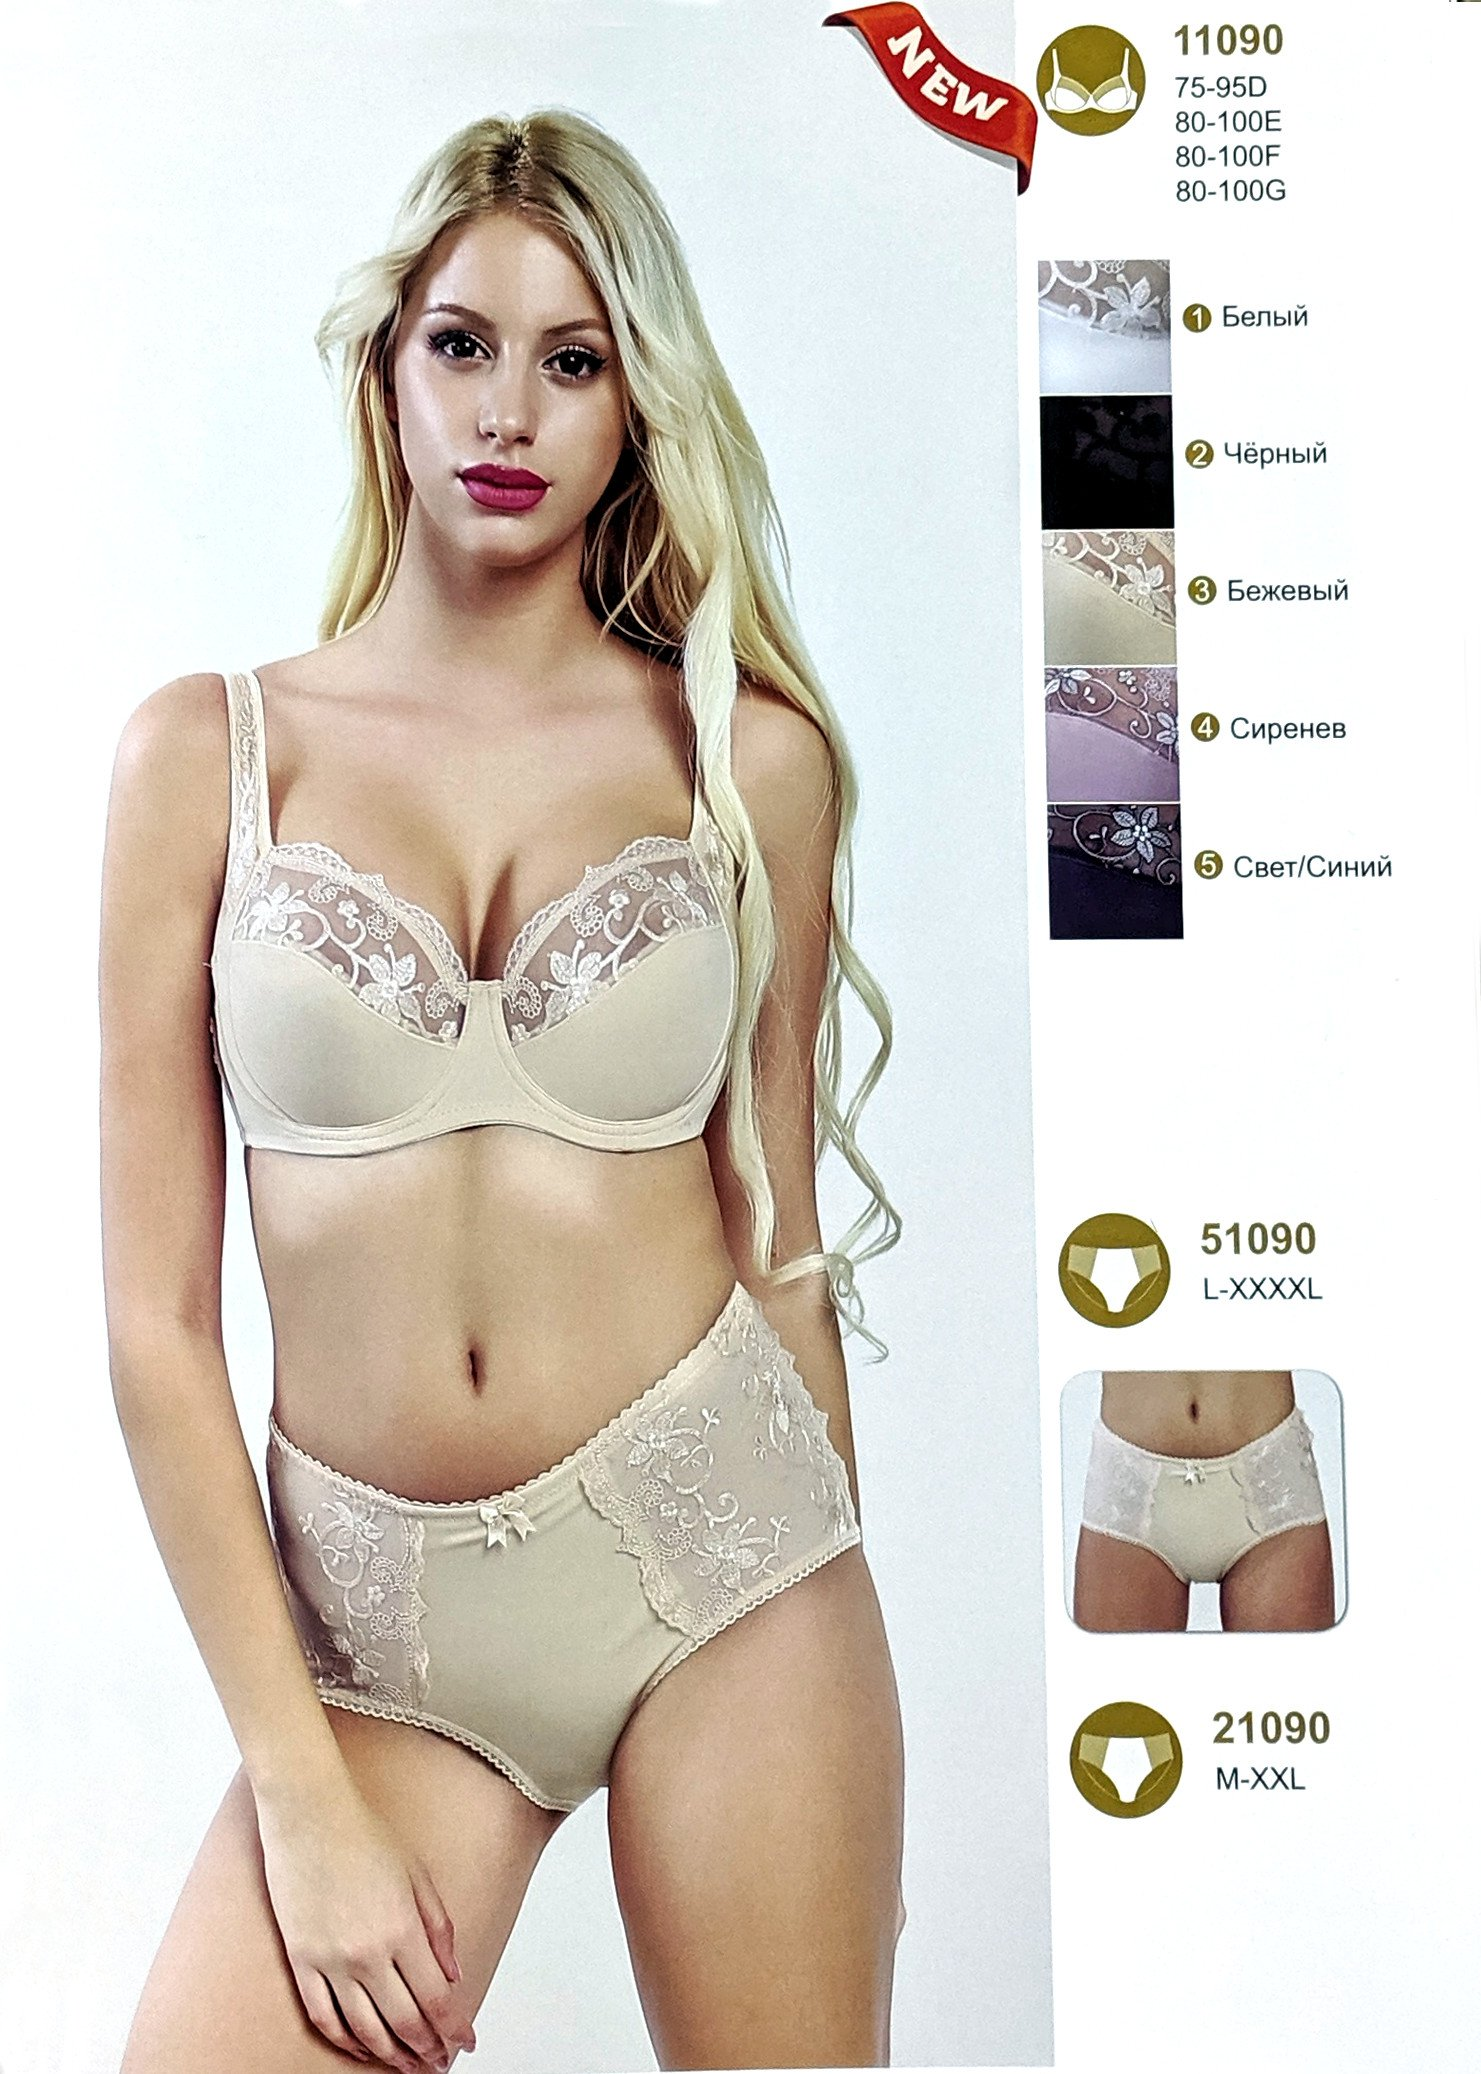
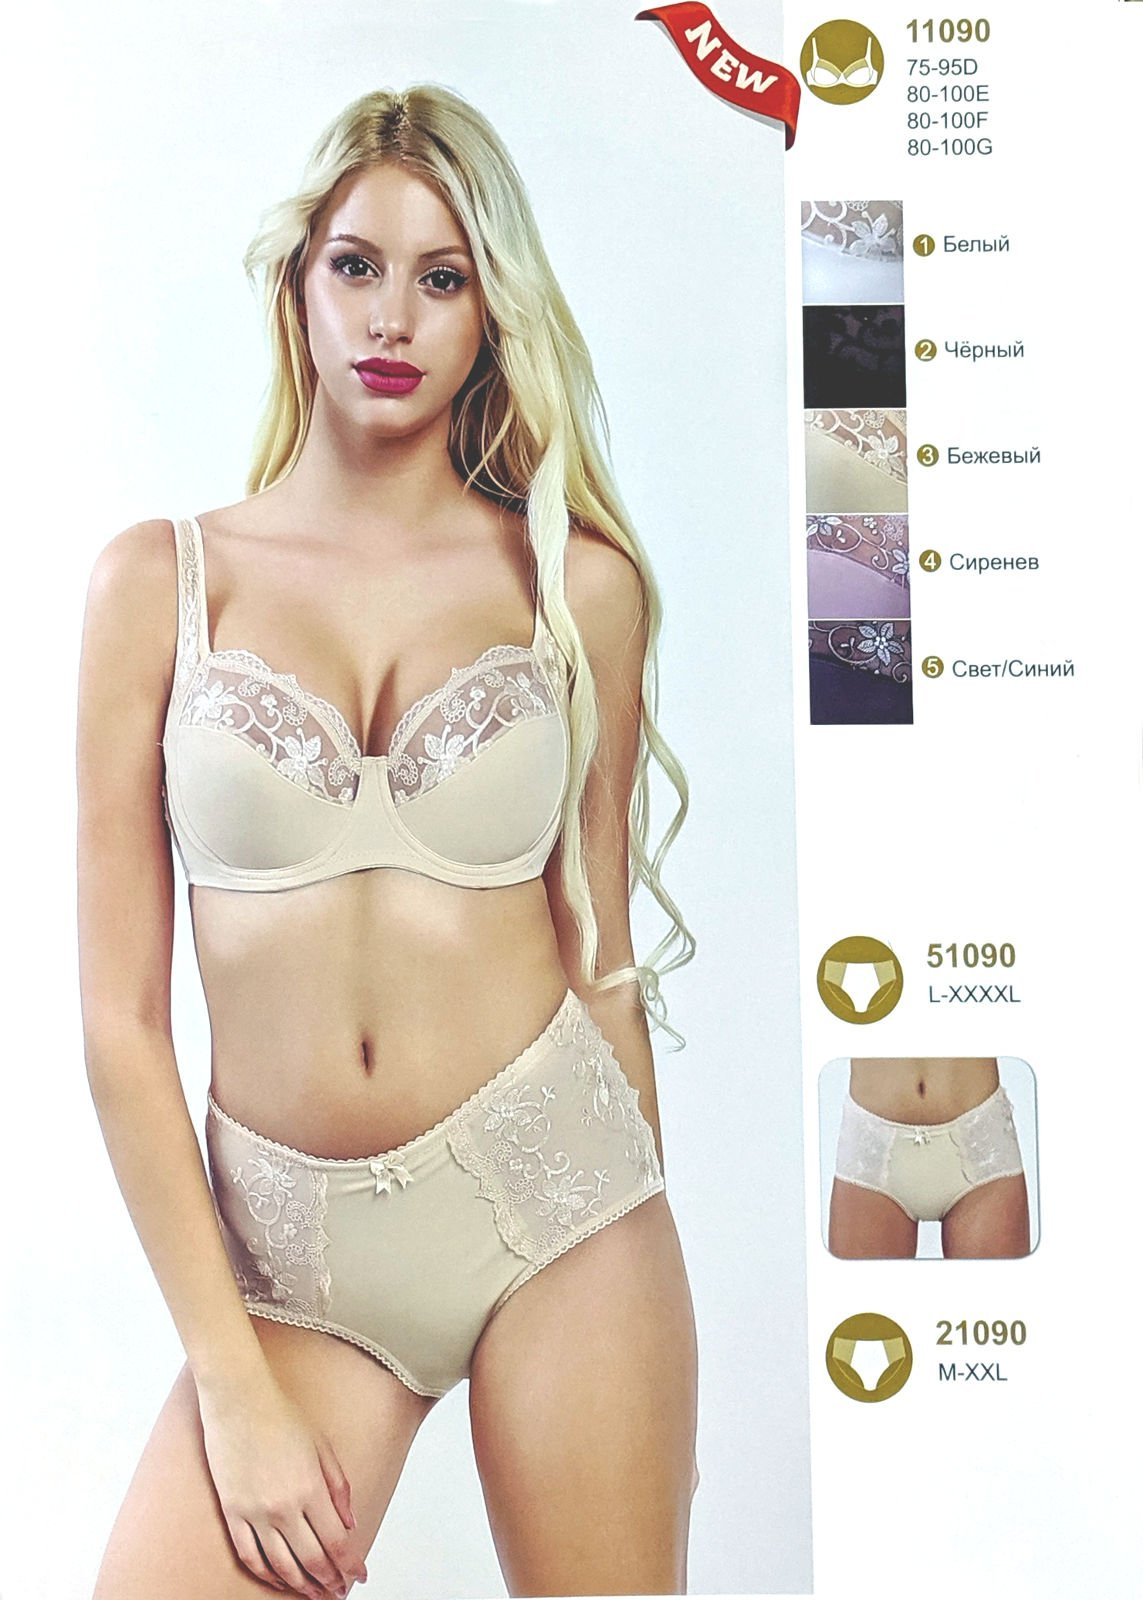
11090 51090

diff --git a/index.html b/index.html
@@ -25,7 +25,7 @@
 
 			<div class="gallery" itemscope itemtype="http://schema.org/ImageGallery">
 							<figure class="gallery__img--secondary thumbnail" itemprop="associatedMedia" itemscope itemtype="http://schema.org/ImageObject">
-								<a href="IMG_18_21.JPG" itemprop="contentUrl" data-size="1481x2074">
+								<a href="IMG_18_21.JPG" itemprop="contentUrl" data-size="1143x1600">
 								<img src="static/echo/blank.gif" data-echo="thumbnails/IMG_18_21.JPG" alt="IMG_18_21.JPG" itemprop="thumbnail" title="Бюстгальтер 11090 Трусики 51090" />
 								</a>
 								<figcaption itemprop="caption description">
